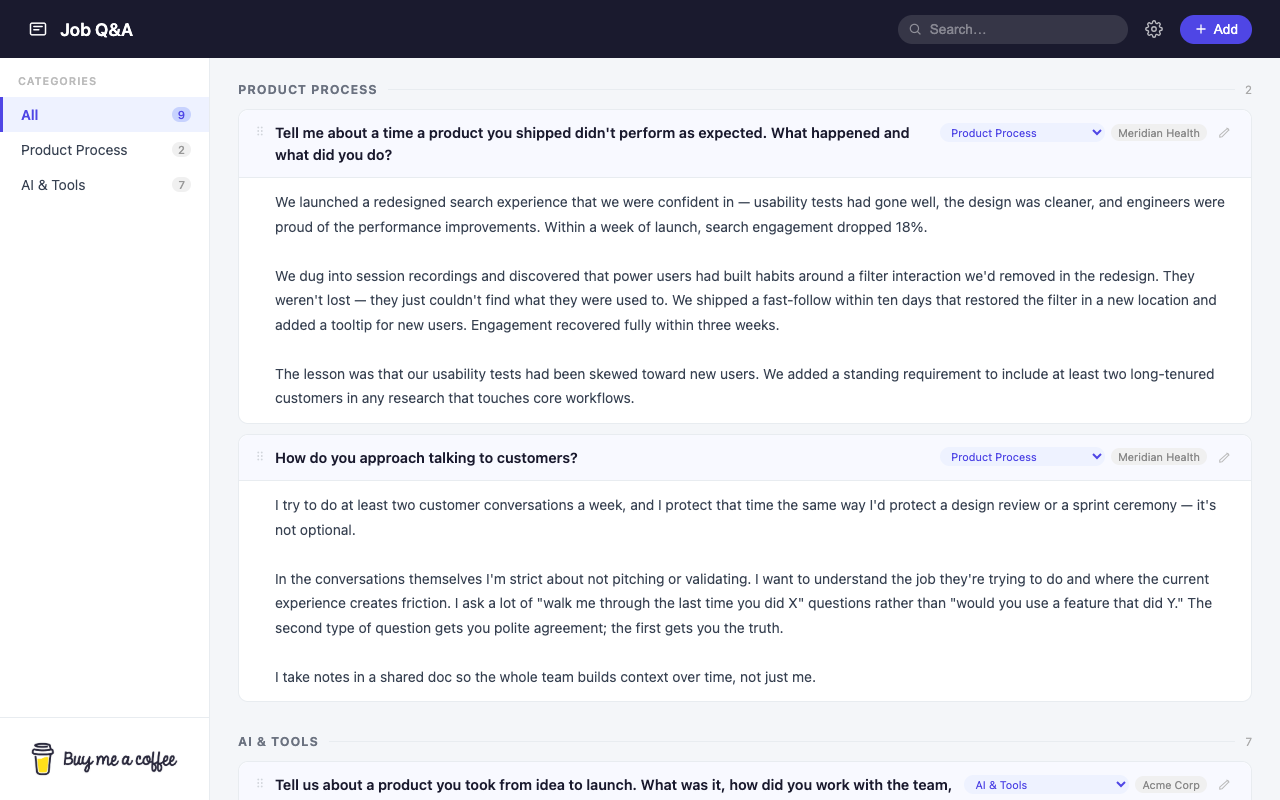
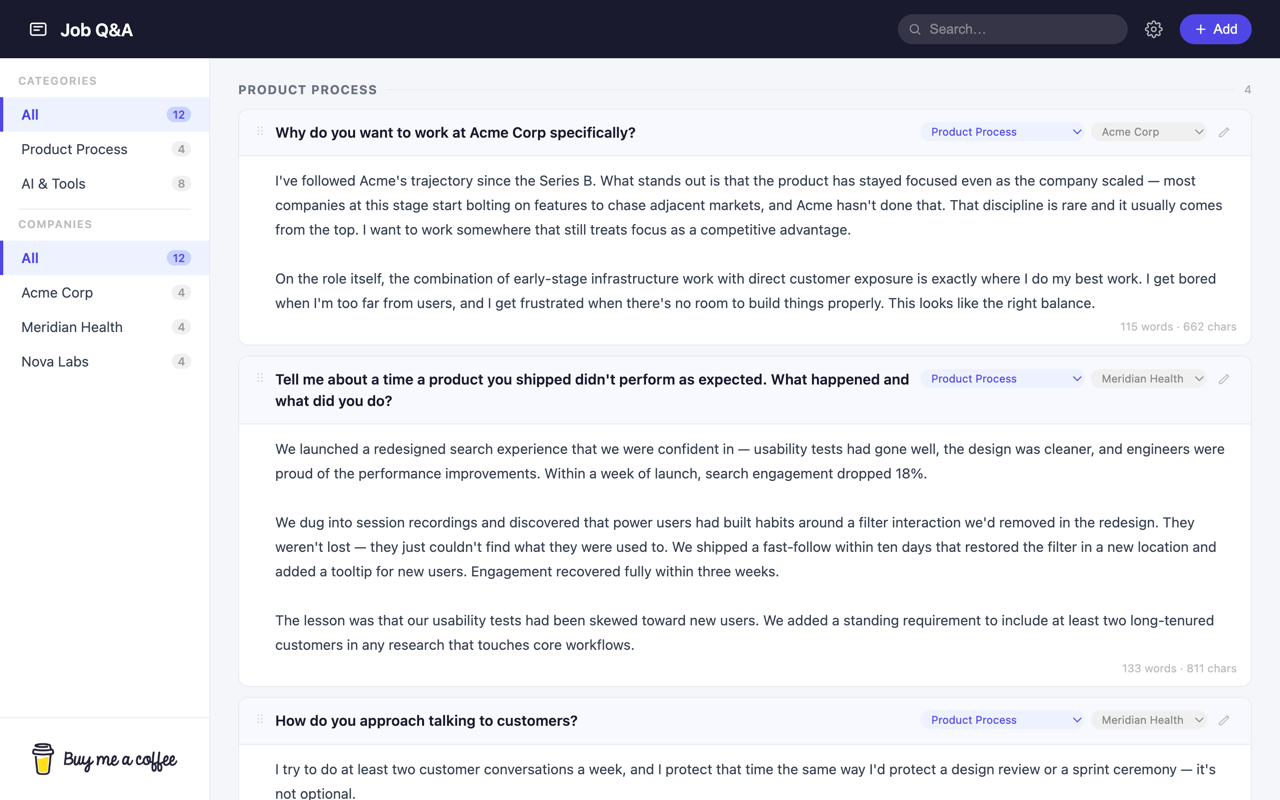
Prepare repo for public release (#4)
* Prepare repo for public release

- Ignore .claude/settings.local.json (contains local path + private filename)
- Fix package.json: correct main entry, add npm start, fill metadata
- Use real clone URL in README instead of placeholder

* Add MIT license

Add LICENSE file, set package.json license to MIT, link it from the README.

* Harden for public use: localhost-only bind, docs, fresh screenshot

- Bind server to 127.0.0.1 so private answers are never exposed on the LAN
- Add company management + word/char counts to README feature list
- Add engines field (node >=18) to package.json
- Refresh screenshot to show the Companies sidebar and counts (sample data only)

* Add FUNDING.yml for repo sponsor button

Points the GitHub "Sponsor" button at the existing Buy Me a Coffee link.

* Use dedicated buy_me_a_coffee FUNDING key

Renders the official branded Buy Me a Coffee button instead of a generic
custom link.

* Clarify company management docs in README

Moving an entry between companies is done via the per-card company
dropdown, not the settings modal (which only adds/renames).

---------

diff --git a/server.js b/server.js
@@ -371,4 +371,6 @@ app.post('/api/config', (req, res) => {
 app.use(express.static(path.join(__dirname, 'public')));
 app.get('/', (req, res) => res.sendFile(path.join(__dirname, 'index.html')));
 
-app.listen(PORT, () => console.log(`Job Q&A Viewer running at http://localhost:${PORT}`));
+// Bind to loopback only — this app serves your private answers with no auth,
+// so it must never be reachable from other machines on the network.
+app.listen(PORT, '127.0.0.1', () => console.log(`Job Q&A Viewer running at http://localhost:${PORT}`));

diff --git a/README.md b/README.md
@@ -7,10 +7,13 @@ A local web app for organising and browsing your job application answers. Keep y
 ## Features
 
 - **Browse by category** — sidebar navigation with auto-categorisation based on keywords
+- **Filter by company** — group answers by company/source and filter to one at a time
 - **Search** — filters questions and answers live
 - **Edit in place** — click the pencil icon to update any answer, saved back to the source file
-- **Add new answers** — via the Add button, saved to `data/answers.txt`
+- **Word & character counts** — live while you type and on every saved answer
+- **Add new answers** — via the Add button, with optional category and company
 - **Drag to reorder** — within or across categories using the ⠿ handle
+- **Manage companies** — add and rename companies from the ⚙ settings modal; move an entry between companies via the company dropdown on its card
 - **Configurable categories** — rename, add, delete, and reorder categories; edit auto-categorisation keywords via the ⚙ settings modal
 
 ## Requirements
@@ -20,7 +23,7 @@ A local web app for organising and browsing your job application answers. Keep y
 ## Setup
 
 ```bash
-git clone https://github.com/your-username/job-qa-viewer.git
+git clone https://github.com/borna761/job-qa-viewer.git
 cd job-qa-viewer
 npm install
 ```
@@ -89,6 +92,10 @@ Once a pair has been manually assigned to a category (or dragged into one), the 
 ## Keeping your data private
 
 `data/*.txt`, `order.json`, and `config.json` are all gitignored. Only the sample data files and the app code are committed. Your answers never leave your machine.
+
+## License
+
+Released under the [MIT License](LICENSE).
 
 ---
 
